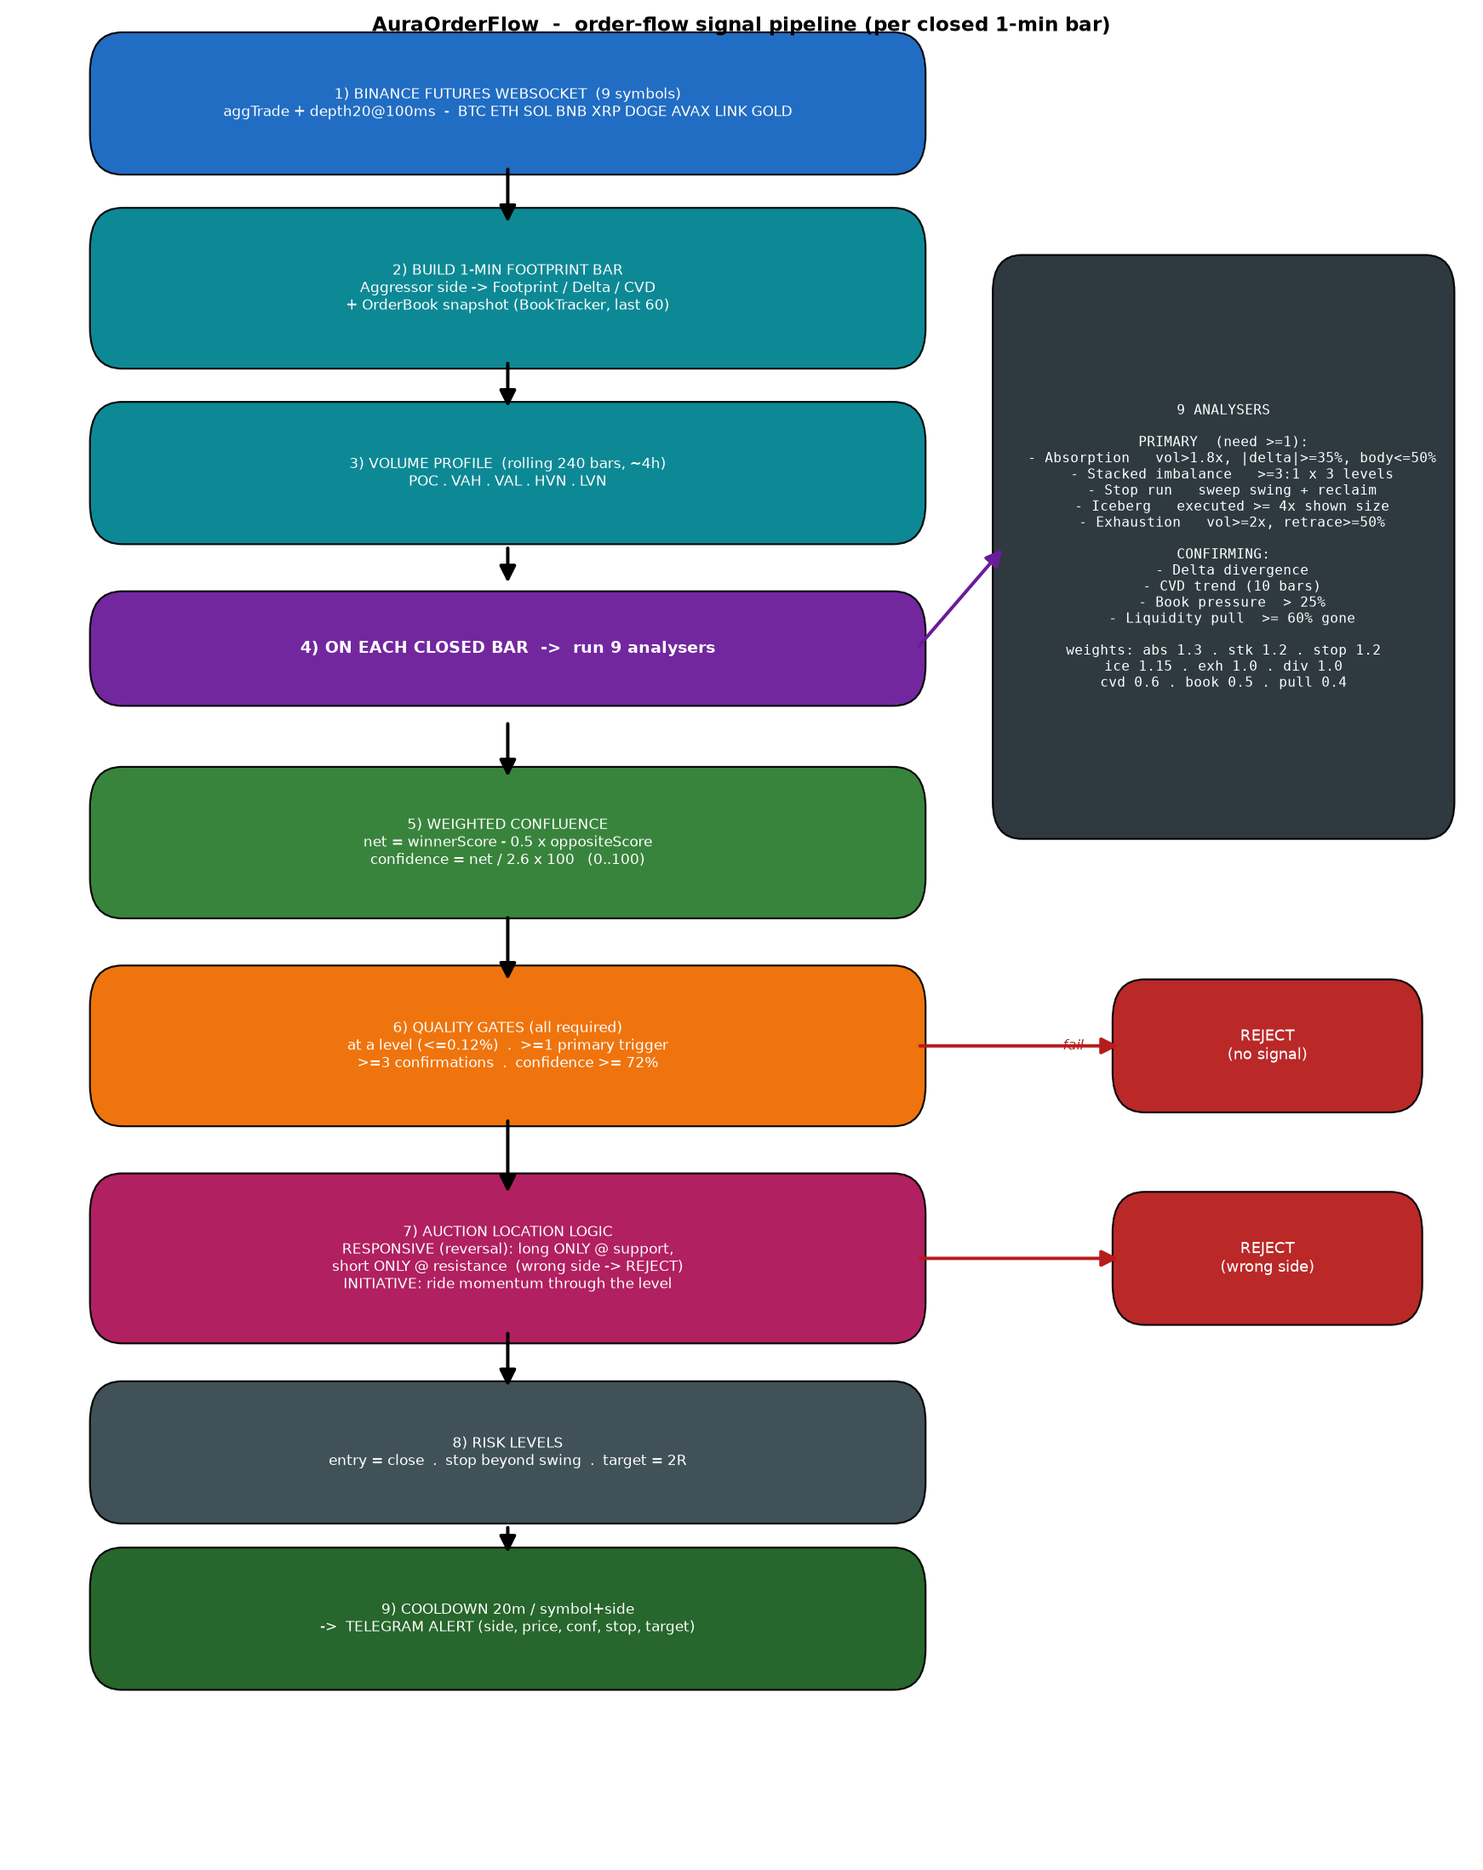
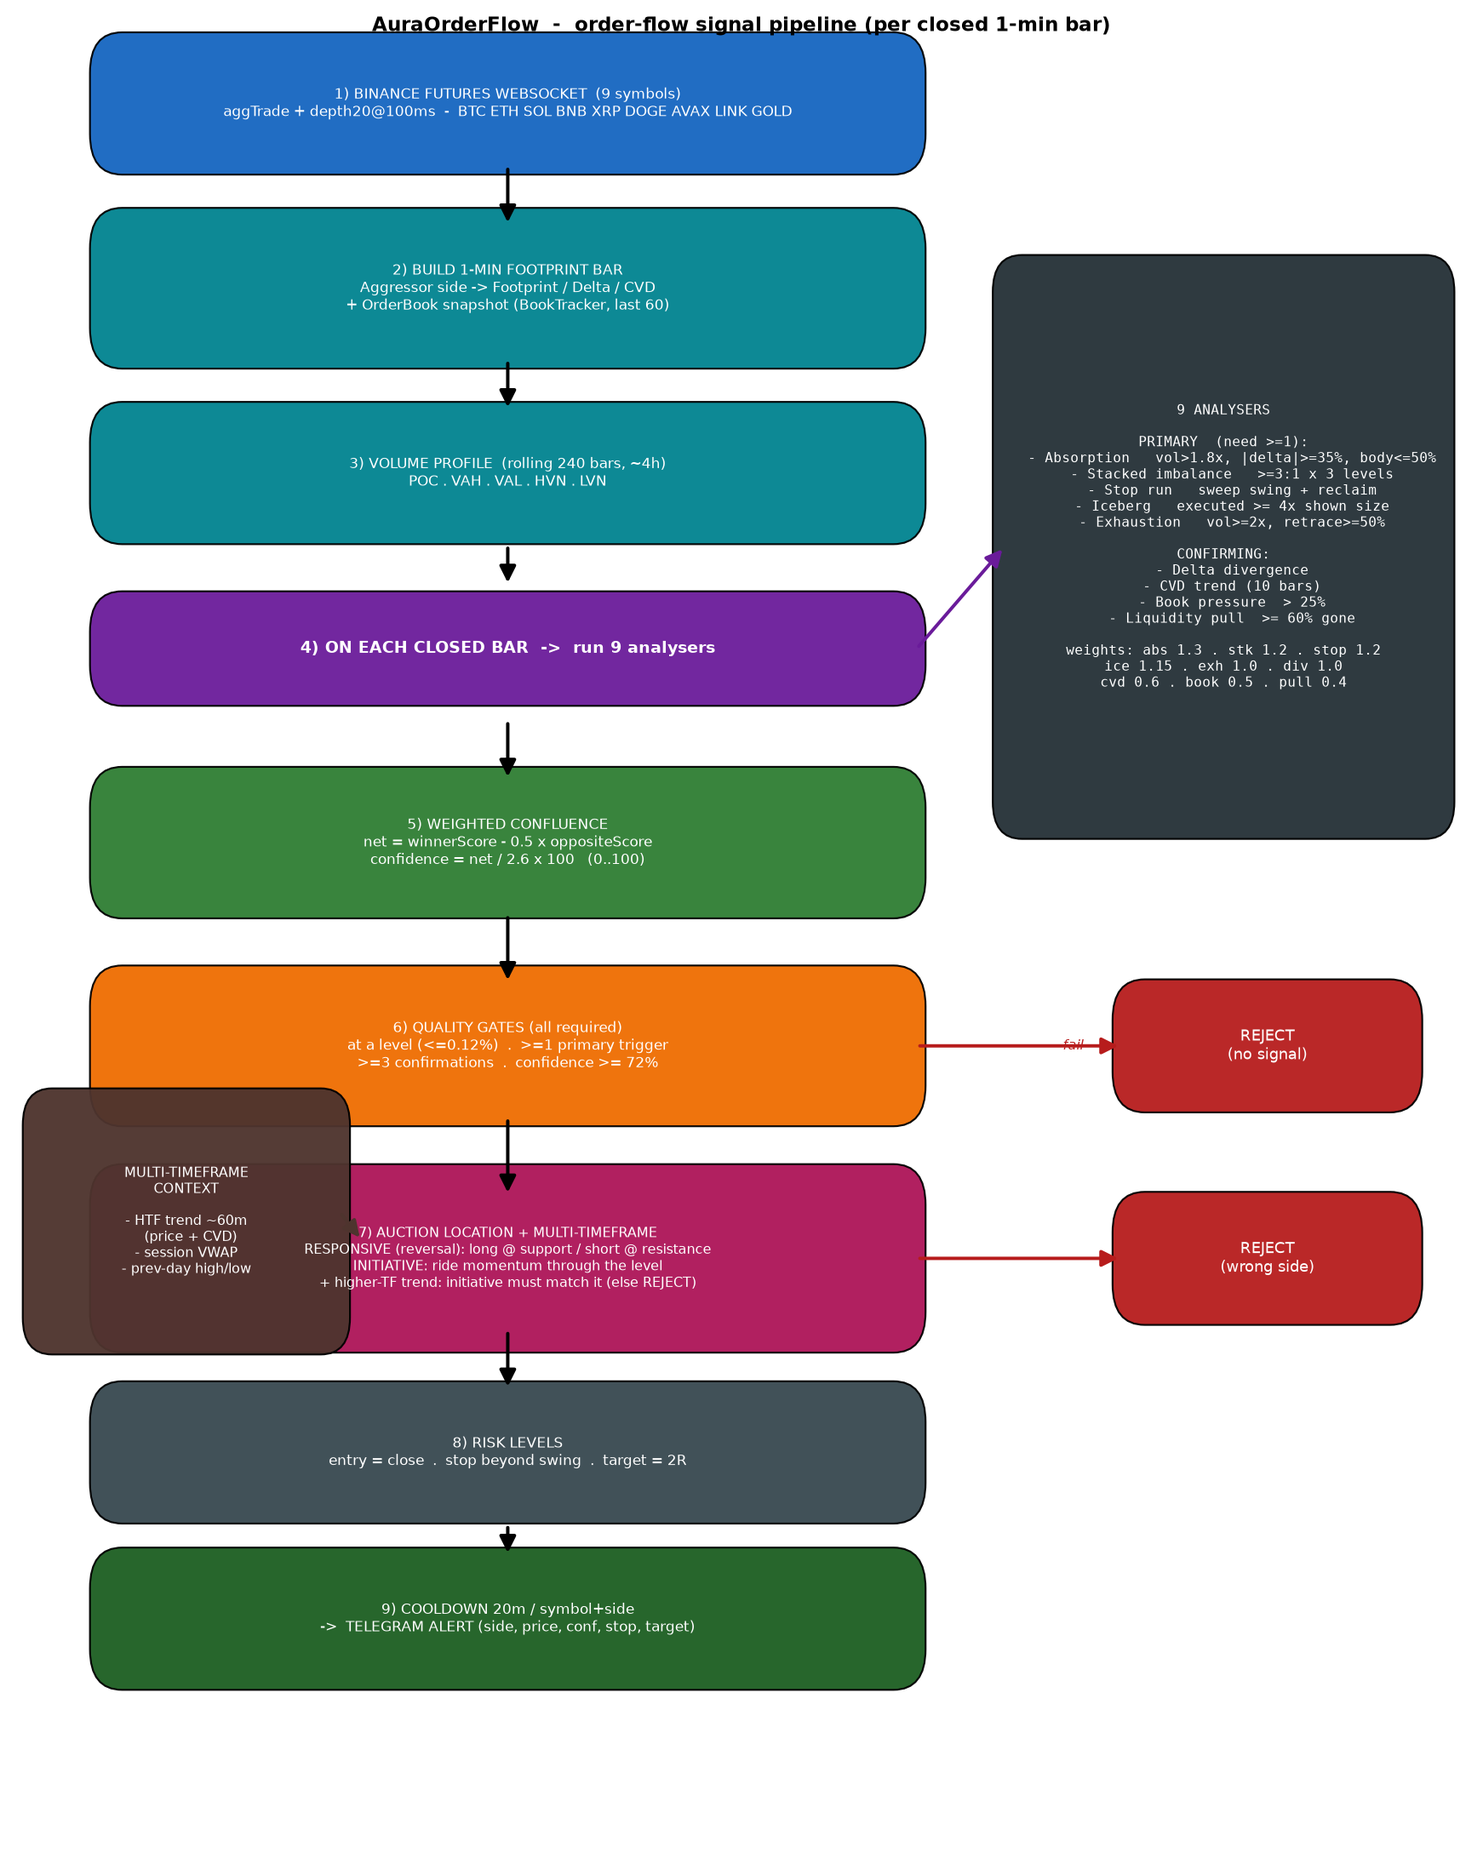
feat: multi-timeframe layer — HTF trend filter + session VWAP + prev-day levels
Adds the missing multi-timeframe dimension to the strategy:

- Engine now derives session context from the same trade stream: session
  VWAP (resets per UTC day) and previous-day high/low/close.
- StrategyEngine gains a higher-timeframe bias (~60m, from price + CVD slope):
  initiative/continuation trades must agree with the HTF trend or they are
  rejected; responsive reversals at a level may fade it; aligned setups get a
  confidence bonus.
- VWAP and previous-day high/low are added to the structural level set (with
  correct support/resistance classification).
- Config knobs: htf_lookback_minutes, require_htf_alignment, use_vwap,
  use_prev_day_levels (config.yaml + StrategyConfig + Bot wiring).
- Tests: +4 (VWAP/prev-day rollover, HTF bias directions, HTF alignment
  rejects counter-trend initiative / allowed when disabled). 45 passing.
- Docs/README/flow diagram updated to reflect the multi-timeframe stack.

The engine now reads 1m order flow against a ~4h profile, filtered by a ~60m
trend, anchored on VWAP + prior-day levels.

Claude-Session: https://claude.ai/code/session_01WC2CkiCHQF7xB7K2upzyvN

Changed region(s): [[0.0, 0.5571, 0.62, 0.7428]]

diff --git a/auraorderflow/signals/strategy.py b/auraorderflow/signals/strategy.py
@@ -14,6 +14,7 @@ from __future__ import annotations
 
 from ..orderflow.analyzers import (
     LONG,
+    NEUTRAL,
     SHORT,
     Detection,
     absorption,
@@ -68,6 +69,10 @@ class StrategyEngine:
         confidence_scale: float = 2.6,
         risk_reward: float = 2.0,
         imbalance_ratio: float = 3.0,
+        htf_lookback_minutes: int = 60,
+        require_htf_alignment: bool = True,
+        use_vwap: bool = True,
+        use_prev_day_levels: bool = True,
         weights: dict[str, float] | None = None,
     ) -> None:
         self.min_bars = min_bars
@@ -78,7 +83,31 @@ class StrategyEngine:
         self.confidence_scale = confidence_scale
         self.risk_reward = risk_reward
         self.imbalance_ratio = imbalance_ratio
+        self.htf_lookback_minutes = htf_lookback_minutes
+        self.require_htf_alignment = require_htf_alignment
+        self.use_vwap = use_vwap
+        self.use_prev_day_levels = use_prev_day_levels
         self.weights = weights or DEFAULT_WEIGHTS
+
+    # -- higher-timeframe bias ---------------------------------------------
+    def _htf_bias(self, engine: OrderFlowEngine) -> str:
+        """Coarse higher-timeframe trend from price + CVD slope.
+
+        Long only when BOTH price and cumulative delta rose over the lookback
+        window (genuine buyer-led uptrend), short when both fell, otherwise
+        neutral. Bars are 1-minute, so ``htf_lookback_minutes`` ~= the higher
+        timeframe in minutes.
+        """
+        bars = engine.recent_bars(self.htf_lookback_minutes)
+        if len(bars) < 10:
+            return NEUTRAL
+        price_chg = bars[-1].close - bars[0].close
+        cvd_chg = bars[-1].cvd - bars[0].cvd
+        if price_chg > 0 and cvd_chg > 0:
+            return LONG
+        if price_chg < 0 and cvd_chg < 0:
+            return SHORT
+        return NEUTRAL
 
     # -- structural level detection ----------------------------------------
     def _level_context(self, engine: OrderFlowEngine, price: float):
@@ -99,6 +128,15 @@ class StrategyEngine:
             candidates.append(("Value Area Low", profile.val))
         candidates += [("HVN", p) for p in profile.hvns]
         candidates += [("LVN", p) for p in profile.lvns]
+
+        # multi-timeframe / session structural levels
+        if self.use_vwap and engine.vwap is not None:
+            candidates.append(("VWAP", engine.vwap))
+        if self.use_prev_day_levels:
+            if engine.prev_day_high is not None:
+                candidates.append(("Prev Day High", engine.prev_day_high))
+            if engine.prev_day_low is not None:
+                candidates.append(("Prev Day Low", engine.prev_day_low))
 
         bars = engine.recent_bars(self.min_bars)
         if len(bars) >= 5:
@@ -198,6 +236,19 @@ class StrategyEngine:
         elif ctx is not None:
             reasons = [f"initiative {'long' if side == LONG else 'short'} "
                        f"through {ctx[0]}"] + reasons
+
+        # -- higher-timeframe alignment (multi-timeframe layer) -------------
+        htf = self._htf_bias(engine)
+        if htf != NEUTRAL:
+            aligned = (side == LONG and htf == LONG) or (side == SHORT and htf == SHORT)
+            # initiative/continuation must not fight the higher-timeframe trend;
+            # responsive reversals at a level are allowed to fade it.
+            if not aligned and not responsive and self.require_htf_alignment:
+                return None
+            if aligned:
+                confidence = min(100.0, confidence * 1.05)
+                trend = "uptrend" if htf == LONG else "downtrend"
+                reasons = [f"with higher-timeframe {trend}"] + reasons
 
         if confidence < self.min_confidence:
             return None

diff --git a/tests/test_multitimeframe.py b/tests/test_multitimeframe.py
@@ -1,0 +1,71 @@
+from auraorderflow.orderflow.engine import OrderFlowEngine
+from auraorderflow.signals.strategy import StrategyEngine
+from tests.helpers import bar_from_trades, raw_bar, trade
+
+DAY_MS = 86_400_000
+
+
+def _engine_with(bars):
+    eng = OrderFlowEngine("T", period_s=60, price_step=1.0)
+    for b in bars:
+        eng.bars.append(b)
+    eng.cvd = bars[-1].cvd
+    return eng
+
+
+# -- session VWAP + previous-day levels ------------------------------------
+def test_engine_vwap_and_prev_day_rollover():
+    eng = OrderFlowEngine("T", period_s=60, price_step=1.0)
+    eng.on_trade(trade(price=100, qty=1, ts=10_000))
+    eng.on_trade(trade(price=102, qty=3, ts=20_000))
+    # VWAP = (100*1 + 102*3) / 4 = 101.5
+    assert round(eng.vwap, 4) == 101.5
+    assert eng.prev_day_high is None
+
+    # cross into the next UTC day -> previous-day levels freeze, VWAP resets
+    eng.on_trade(trade(price=99, qty=1, ts=DAY_MS + 10_000))
+    assert eng.prev_day_high == 102
+    assert eng.prev_day_low == 100
+    assert eng.prev_day_close == 102
+    assert eng.vwap == 99  # new day, single trade
+
+
+# -- higher-timeframe bias --------------------------------------------------
+def test_htf_bias_directions():
+    se = StrategyEngine()
+    up = _engine_with([raw_bar(close=100 + i * 0.1, cvd=float(i)) for i in range(20)])
+    assert se._htf_bias(up) == "long"
+    down = _engine_with([raw_bar(close=100 - i * 0.1, cvd=float(-i)) for i in range(20)])
+    assert se._htf_bias(down) == "short"
+    # price up but CVD down -> divergent -> neutral (no clear bias)
+    div = _engine_with([raw_bar(close=100 + i * 0.1, cvd=float(-i)) for i in range(20)])
+    assert se._htf_bias(div) == "neutral"
+    # too little history -> neutral
+    assert se._htf_bias(_engine_with([raw_bar() for _ in range(5)])) == "neutral"
+
+
+# -- HTF alignment filter in evaluate() ------------------------------------
+def _initiative_long_engine():
+    # 25 quiet bars + a strong stacked-imbalance (initiative) long bar
+    bars = [raw_bar(close=100, buy=5, sell=5, cvd=float(i)) for i in range(25)]
+    specs = [(float(p), 30.0, False) for p in range(100, 106)]      # buys 100..105
+    specs += [(float(p), 1.0, True) for p in range(100, 105)]        # tiny sells
+    bars.append(bar_from_trades(specs, step=1.0, cvd=40.0))
+    return _engine_with(bars)
+
+
+def test_evaluate_rejects_initiative_against_htf_trend():
+    eng = _initiative_long_engine()
+    se = StrategyEngine(require_level=False, require_htf_alignment=True,
+                        min_confidence=60, min_confirmations=2, confidence_scale=2.0)
+    se._htf_bias = lambda engine: "short"   # higher timeframe is down
+    assert se.evaluate(eng) is None          # initiative long vs HTF down -> skip
+
+
+def test_evaluate_allows_initiative_when_alignment_disabled():
+    eng = _initiative_long_engine()
+    se = StrategyEngine(require_level=False, require_htf_alignment=False,
+                        min_confidence=60, min_confirmations=2, confidence_scale=2.0)
+    se._htf_bias = lambda engine: "short"
+    sig = se.evaluate(eng)
+    assert sig is not None and sig.side == "LONG"

diff --git a/auraorderflow/orderflow/engine.py b/auraorderflow/orderflow/engine.py
@@ -8,6 +8,7 @@ caller can run analysis exactly once per completed bar.
 from __future__ import annotations
 
 from collections import deque
+from datetime import datetime, timezone
 
 from .book import BookTracker
 from .models import Bar, OrderBookSnapshot, Trade
@@ -33,6 +34,17 @@ class OrderFlowEngine:
         self.book: OrderBookSnapshot | None = None
         self.book_tracker = BookTracker()
 
+        # higher-timeframe / session context (built from the same trade stream)
+        self._vwap_pv = 0.0          # sum(price * qty) for the current UTC day
+        self._vwap_vol = 0.0         # sum(qty) for the current UTC day
+        self._day = None             # current UTC date
+        self._day_high: float | None = None
+        self._day_low: float | None = None
+        self._day_close: float | None = None
+        self.prev_day_high: float | None = None
+        self.prev_day_low: float | None = None
+        self.prev_day_close: float | None = None
+
     # -- ingestion ----------------------------------------------------------
     def _bar_start(self, ts: int) -> int:
         return ts - (ts % self.period_ms)
@@ -50,10 +62,36 @@ class OrderFlowEngine:
             # is created; empty intermediate minutes are simply skipped.
             self.current = self._new_bar(start)
 
+        self._update_session(trade)
         self.cvd += trade.signed_qty
         self.current.add_trade(trade)
         self.current.cvd = self.cvd
         return closed
+
+    def _update_session(self, trade: Trade) -> None:
+        """Maintain session VWAP and previous-day high/low/close (UTC days)."""
+        day = datetime.fromtimestamp(trade.timestamp / 1000, tz=timezone.utc).date()
+        if self._day is None:
+            self._day = day
+        elif day != self._day:
+            # day rollover: freeze the day that just ended, reset accumulators
+            self.prev_day_high = self._day_high
+            self.prev_day_low = self._day_low
+            self.prev_day_close = self._day_close
+            self._day = day
+            self._vwap_pv = self._vwap_vol = 0.0
+            self._day_high = self._day_low = None
+
+        p = trade.price
+        self._day_high = p if self._day_high is None else max(self._day_high, p)
+        self._day_low = p if self._day_low is None else min(self._day_low, p)
+        self._day_close = p
+        self._vwap_pv += p * trade.qty
+        self._vwap_vol += trade.qty
+
+    @property
+    def vwap(self) -> float | None:
+        return self._vwap_pv / self._vwap_vol if self._vwap_vol > 0 else None
 
     def on_orderbook(self, snapshot: OrderBookSnapshot) -> None:
         self.book = snapshot

diff --git a/auraorderflow/config.py b/auraorderflow/config.py
@@ -44,6 +44,11 @@ class StrategyConfig:
     risk_reward: float = 2.0
     imbalance_ratio: float = 3.0
     signal_cooldown_seconds: int = 900
+    # multi-timeframe layer
+    htf_lookback_minutes: int = 60
+    require_htf_alignment: bool = True
+    use_vwap: bool = True
+    use_prev_day_levels: bool = True
 
 
 @dataclass(slots=True)
@@ -109,6 +114,10 @@ def load_config(path: str | os.PathLike | None = None) -> AppConfig:
         risk_reward=float(s_raw.get("risk_reward", 2.0)),
         imbalance_ratio=float(s_raw.get("imbalance_ratio", 3.0)),
         signal_cooldown_seconds=int(s_raw.get("signal_cooldown_seconds", 900)),
+        htf_lookback_minutes=int(s_raw.get("htf_lookback_minutes", 60)),
+        require_htf_alignment=bool(s_raw.get("require_htf_alignment", True)),
+        use_vwap=bool(s_raw.get("use_vwap", True)),
+        use_prev_day_levels=bool(s_raw.get("use_prev_day_levels", True)),
     )
 
     chat_ids = [

diff --git a/auraorderflow/bot.py b/auraorderflow/bot.py
@@ -48,6 +48,10 @@ class Bot:
             confidence_scale=config.strategy.confidence_scale,
             risk_reward=config.strategy.risk_reward,
             imbalance_ratio=config.strategy.imbalance_ratio,
+            htf_lookback_minutes=config.strategy.htf_lookback_minutes,
+            require_htf_alignment=config.strategy.require_htf_alignment,
+            use_vwap=config.strategy.use_vwap,
+            use_prev_day_levels=config.strategy.use_prev_day_levels,
         )
 
         self.states: dict[str, SymbolState] = {}

diff --git a/docs/STRATEGY_FLOW.md b/docs/STRATEGY_FLOW.md
@@ -11,7 +11,8 @@ flowchart TD
     D["4) On each CLOSED bar → run 9 analysers"]
     E["5) Weighted confluence<br/>net = winnerScore − 0.5·oppositeScore<br/>confidence = net / 2.6 × 100"]
     F{"6) Quality gates<br/>at level ≤0.12% · ≥1 primary<br/>≥3 confirmations · confidence ≥72%"}
-    G{"7) Auction location<br/>responsive: long@support / short@resistance<br/>initiative: ride through level"}
+    G{"7) Auction location + higher-TF<br/>responsive: long@support / short@resistance<br/>initiative: ride through level &amp; must match HTF trend"}
+    M["Multi-timeframe context:<br/>HTF trend ~60m (price+CVD) · session VWAP · prev-day H/L"]
     H["8) Risk levels<br/>entry=close · stop beyond swing · target = 2R"]
     I["9) Cooldown 20m → Telegram alert"]
     X["REJECT — no signal"]
@@ -27,19 +28,28 @@ flowchart TD
       Q["CONFIRMING: delta divergence · CVD trend ·<br/>book pressure · liquidity pull"]
     end
     D -.-> ANALYSERS
+    M -.-> G
 ```
 
-## Timeframes & how the market is checked
+## Timeframes & how the market is checked (multi-timeframe)
 
 * **Execution timeframe:** 1-minute footprint bars (`bar_period_seconds: 60`).
   Every time a 1-minute bar closes, the full 9-analyser + gate pipeline runs.
 * **Structure / context:** a rolling **volume profile over the last 240 bars
-  (~4 hours)** supplies POC / VAH / VAL / HVN / LVN, and the last ~25 bars supply
-  recent swing high/low. These are the levels signals must occur *at*.
+  (~4 hours)** supplies POC / VAH / VAL / HVN / LVN, plus recent swings.
+* **Higher-timeframe trend (~60m):** `htf_lookback_minutes` (default 60) — the
+  bias is *long* only when price **and** cumulative delta both rose over the
+  window, *short* when both fell, else neutral. **Initiative (continuation)
+  trades must agree with this bias** or they are rejected; **responsive
+  (reversal) trades at a level are allowed to fade it**; aligned trades get a
+  confidence bonus.
+* **Session VWAP** and **previous-day high/low** are added as structural levels
+  (so signals can trigger at them, with correct support/resistance side).
 * **Liquidity context:** the last 60 order-book snapshots (BookTracker) feed the
   DOM-pressure and liquidity-pull analysers.
 
-This is a **single-timeframe** intraday order-flow engine: 1-minute flow read
-against a 4-hour structural backdrop. It is **not** multi-timeframe — it does not
-yet add a higher-timeframe trend filter, session VWAP, or daily/weekly levels.
-Those are the natural next layer if multi-timeframe confluence is wanted.
+So the engine reads **1-minute order flow, against a ~4h profile, filtered by a
+~60m trend, anchored on session VWAP and prior-day levels** — a genuine
+multi-timeframe order-flow stack. All of it is tunable in `config.yaml`
+(`htf_lookback_minutes`, `require_htf_alignment`, `use_vwap`,
+`use_prev_day_levels`).

diff --git a/README.md b/README.md
@@ -89,7 +89,8 @@ Mapped to the order-flow catalogue you provided:
 | #9 Initiative vs responsive | `StrategyEngine` classifies the setup and applies the location filter |
 | #10 Volume exhaustion / climax | `exhaustion()` — climax volume into an extreme with a poor result |
 | #11 Auction market theory | responsive reversals only on the correct side of value; initiative trades ride momentum |
-| Bonus: combinations | `StrategyEngine` confluence — **primary trigger** at the **right side** of a level **plus** confirmations |
+| Multi-timeframe | higher-TF trend filter (~60m, price+CVD) + session **VWAP** + **prev-day** high/low as levels |
+| Bonus: combinations | `StrategyEngine` confluence — **primary trigger** at the **right side** of a level, **with the higher-TF trend**, plus confirmations |
 
 **How signals are gated (the way real order-flow traders stack edges):** a valid
 setup must (1) occur **at a structural level**, (2) include at least one
@@ -102,7 +103,12 @@ On top of that, **auction location logic** (initiative vs responsive): a
 only fires on the correct side of the auction — **longs at support, shorts at
 resistance** — so the bot never fades a reversal into the wrong edge. *Initiative*
 setups (stacked imbalance / CVD / book pressure) ride momentum through a level
-instead. Opposing flow is netted against the setup before scoring. Microstructure
+instead. Opposing flow is netted against the setup before scoring.
+
+Finally a **multi-timeframe layer**: a higher-timeframe trend (~60m, from price +
+cumulative delta) filters the 1-minute flow — initiative/continuation trades must
+agree with it, while responsive reversals at a level may fade it; and **session
+VWAP** plus **previous-day high/low** are added as structural levels. Microstructure
 scalping (#12) is intentionally **not** automated — it depends on
 latency/colocation, not something a polled feed can do honestly.
 
